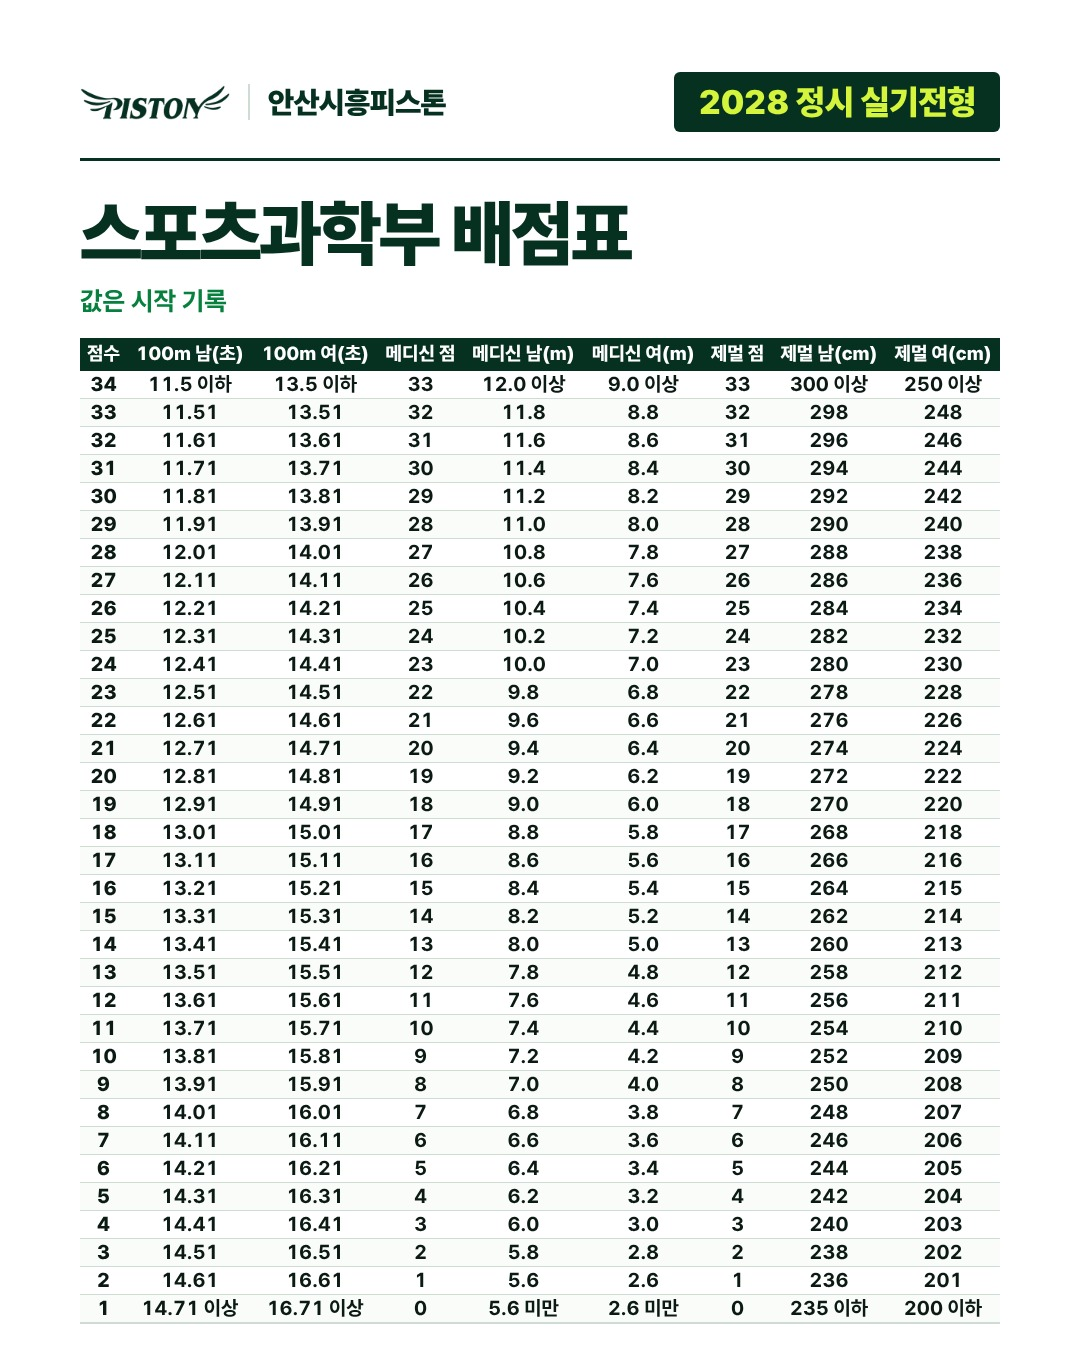
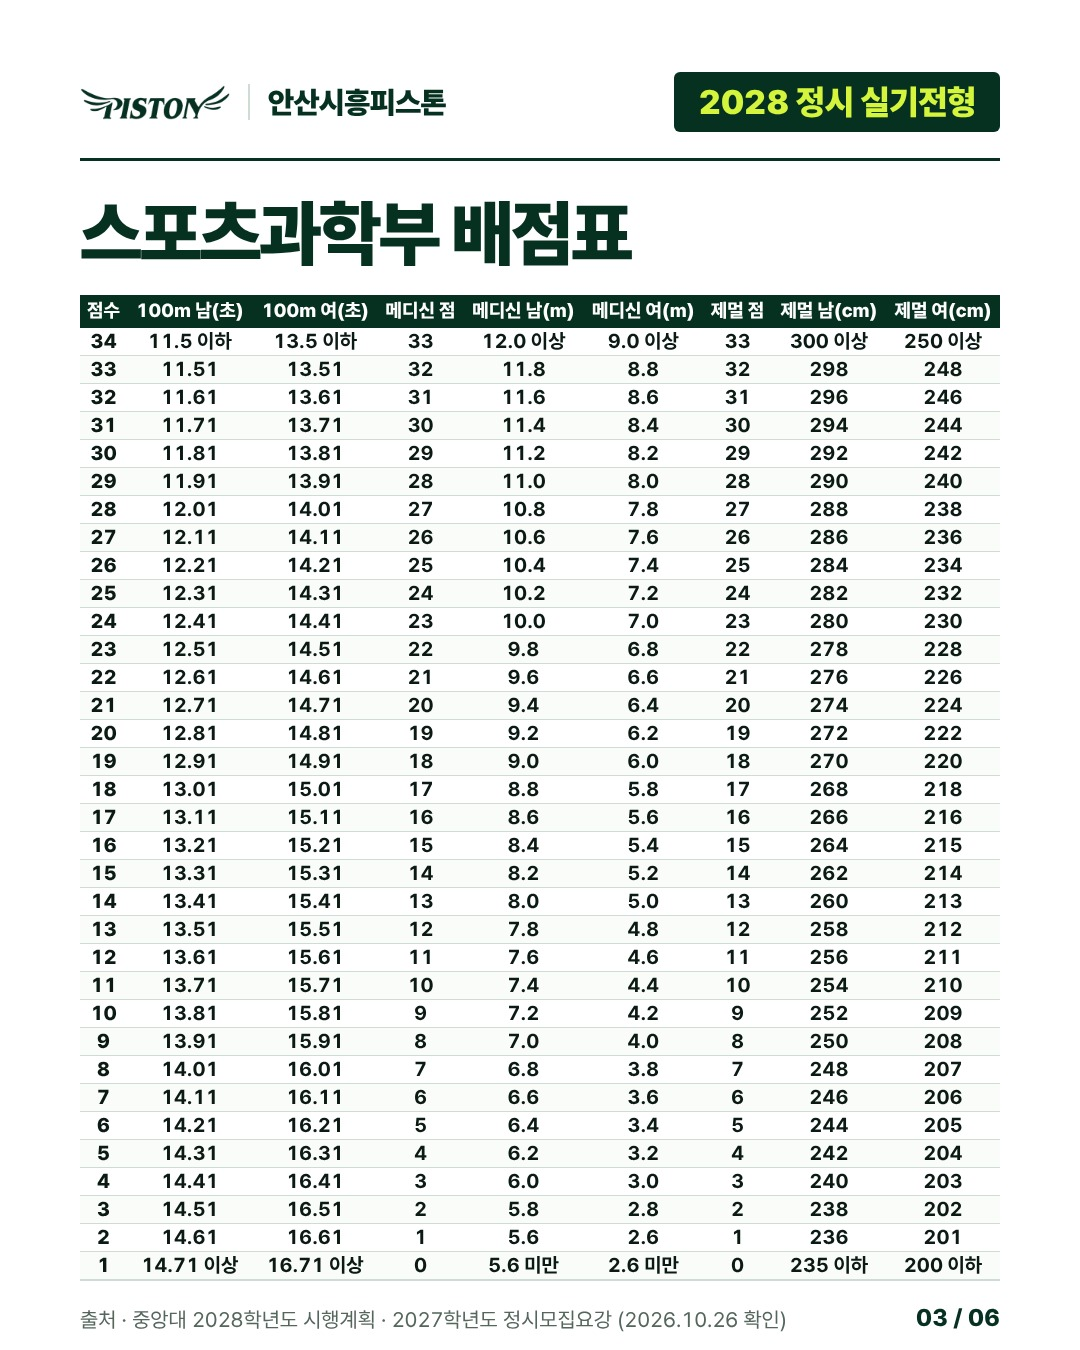
중앙대 작업 중간 저장
Claude-Session: https://claude.ai/code/session_01EGTn7G8nWP1yv5M2jqmoFb

Changed region(s): [[0.0611, 0.2178, 0.9472, 0.9956]]

diff --git a/social/out/cau-jeongsi-jeongsi/blog.md b/social/out/cau-jeongsi-jeongsi/blog.md
@@ -25,7 +25,7 @@
 
 
 
-## 스포츠과학부 배점표 (값은 시작 기록)
+## 스포츠과학부 배점표
 | 점수 | 100m 남(초) | 100m 여(초) | 메디신 점 | 메디신 남(m) | 메디신 여(m) | 제멀 점 | 제멀 남(cm) | 제멀 여(cm) |
 | --- | --- | --- | --- | --- | --- | --- | --- | --- |
 | 34 | 11.5 이하 | 13.5 이하 | 33 | 12.0 이상 | 9.0 이상 | 33 | 300 이상 | 250 이상 |
